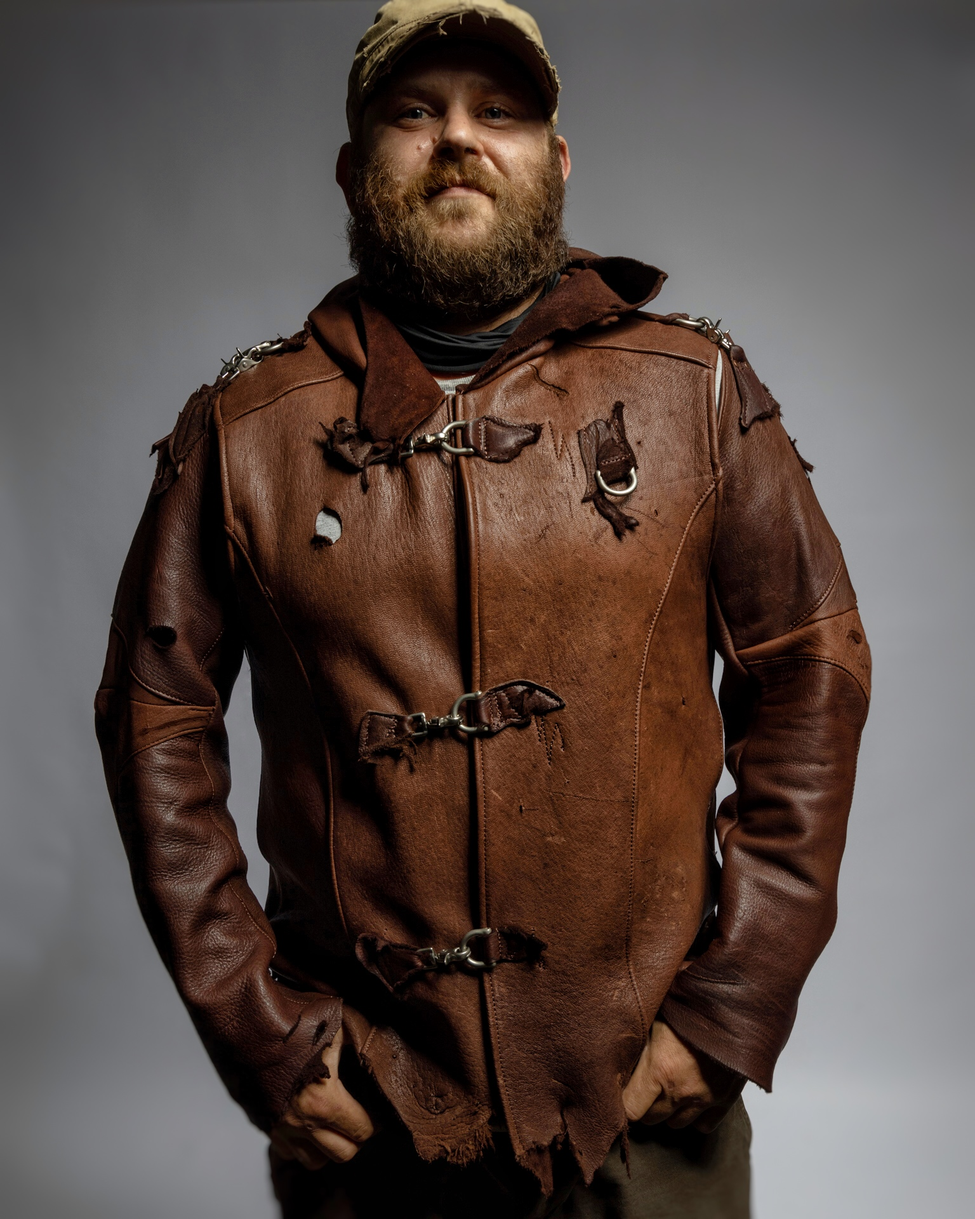
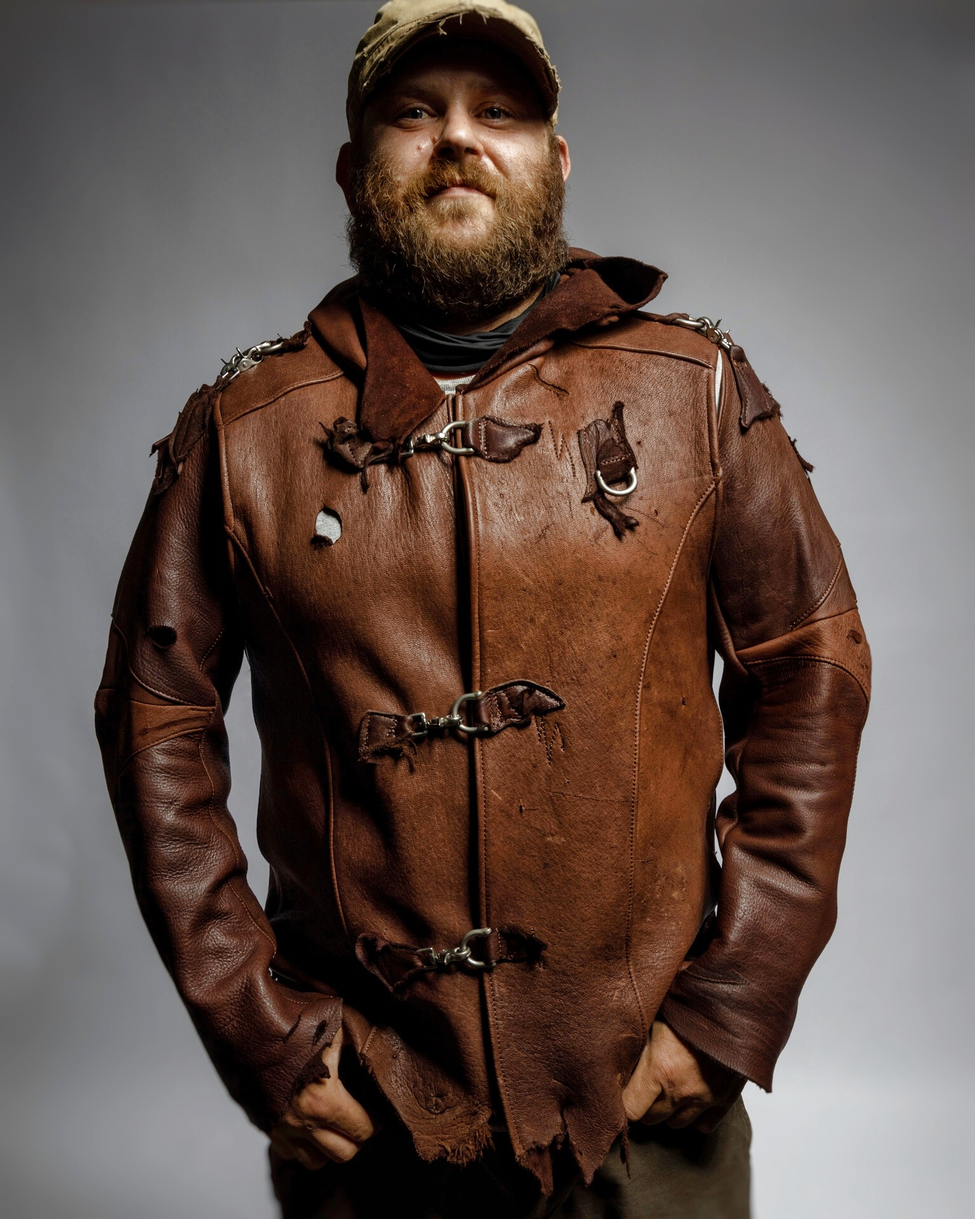
Updates

diff --git a/brochure.html b/brochure.html
@@ -561,7 +561,7 @@
   }
   .bespoke-bottom-image {
     width: 100%;
-    height: 4.05in;
+    height: 4.49in;
     border-radius: 5px;
     overflow: hidden;
     margin-top: 0.08in;
